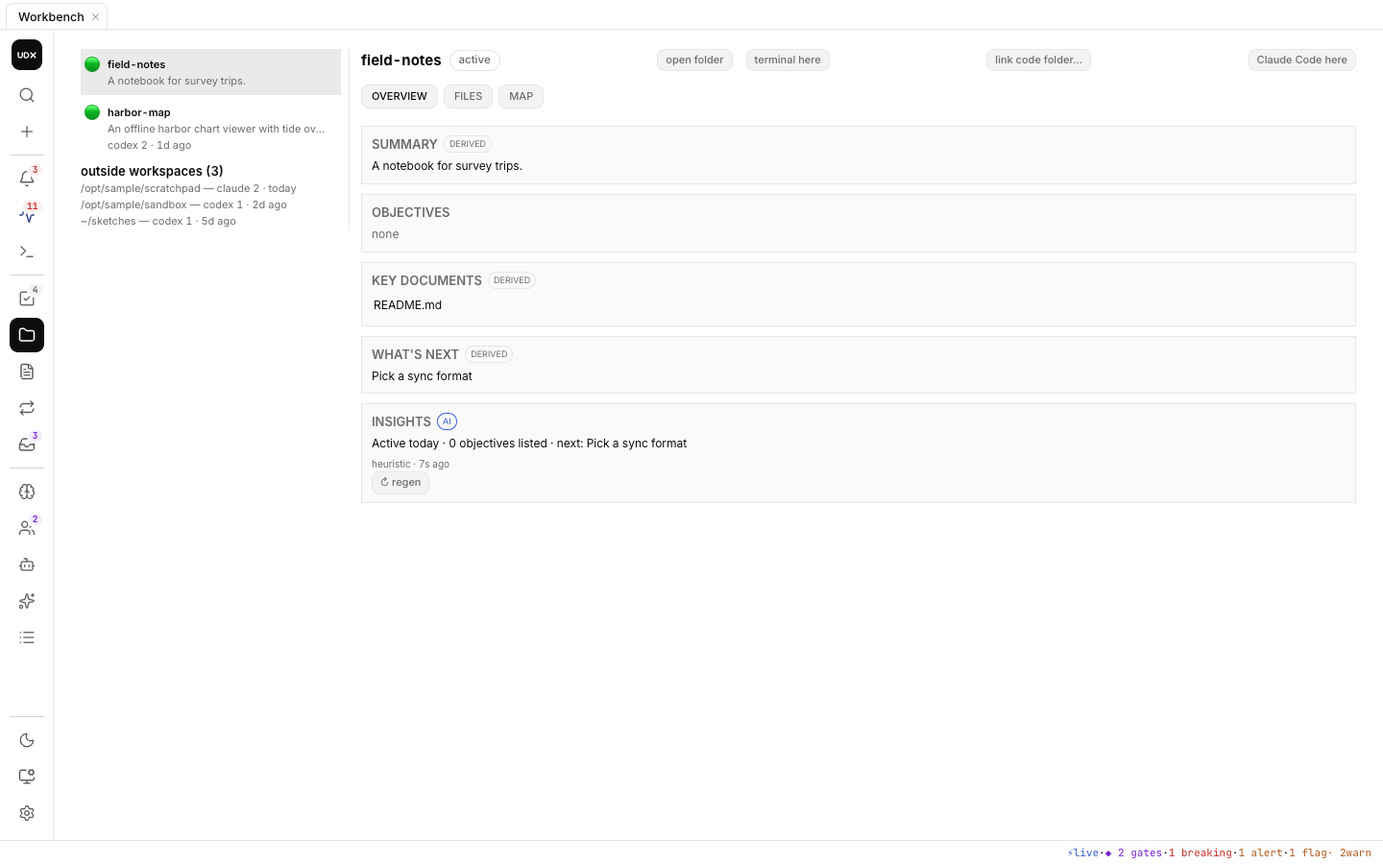
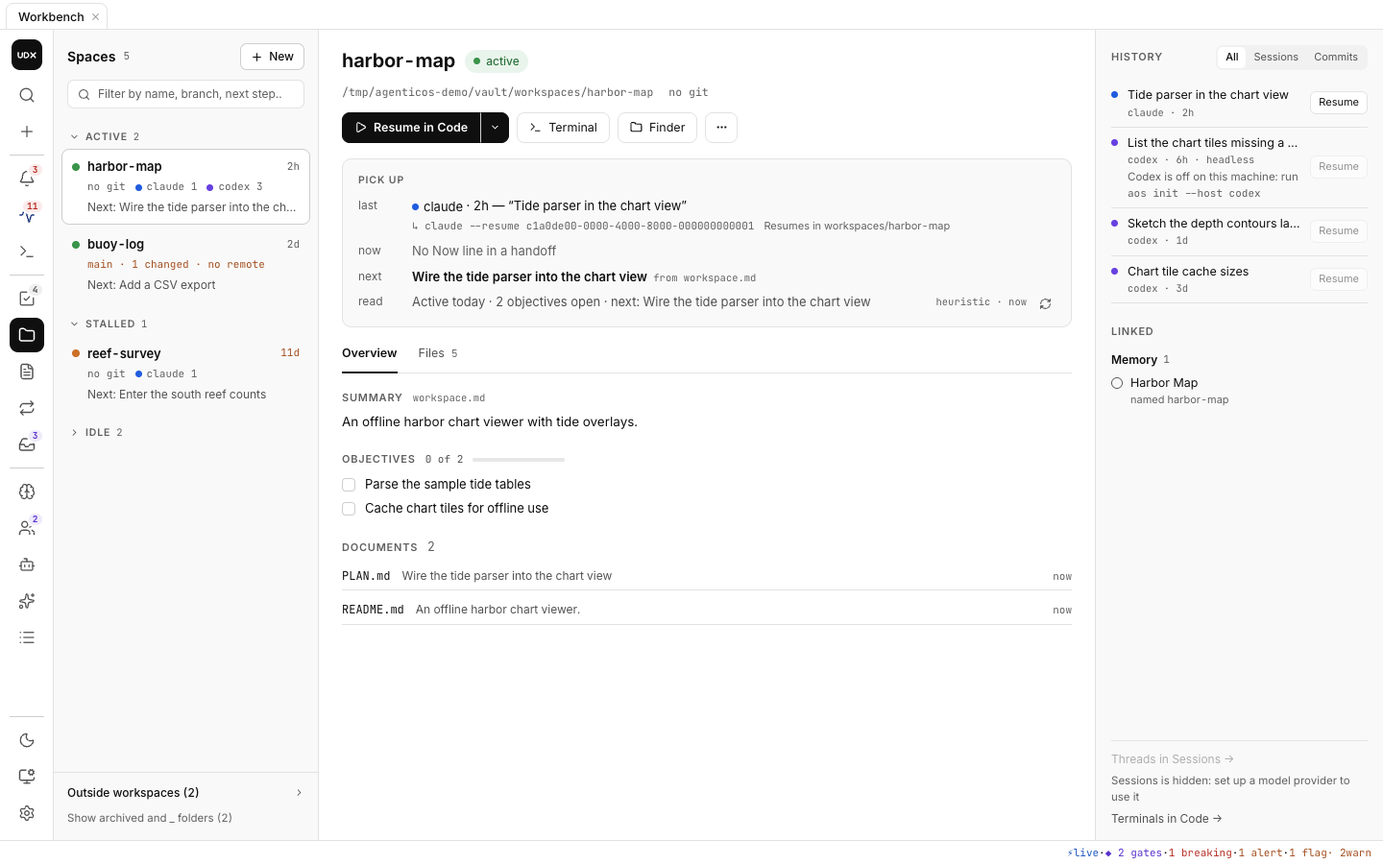
docs: Spaces redesign in the README, smoke items, changelog and screens

diff --git a/docs/app-smoke.md b/docs/app-smoke.md
@@ -147,10 +147,17 @@ Run before tagging a release, in the UniDeX app on a vault created by `aos init`
 
 ## Spaces / Memory / Runs
 
-- [ ] Spaces lists workspaces from `snapshot.json`; insight footer says `local` when no model tag is present.
-- [ ] **Claude Code:** Spaces rows carry a sessions chip (`claude N · codex M · Nd ago`, sessions of the last 30 days) for every workspace either CLI has worked in; a workspace whose sessions are all older than 30 days shows `none in 30d · Nd ago`, and one with no session at all shows no chip. Counts include the local sessions of a host that is turned off. A Claude Code session started at the vault root that touches files in `workspaces/x` (three edits or reads or more, more than any other workspace) raises x's `claude` count after the next scan (the session's end, or `/scan`); what a subagent of that session edits does not count.
-- [ ] **Codex:** a Codex session started in a checkout under `workspaces/.worktrees/<ws>/` counts for `<ws>`: its `codex` count rises after the next scan, and the checkout is not listed outside workspaces.
-- [ ] An "outside workspaces" footer under the list names each working directory sessions ran in elsewhere (`~`-shortened, newest first, at most eight); hovering shows the `aos workspace adopt` command. It disappears once those folders are adopted and the vault rescanned. Temp, scratch and job folders (anything under the OS temp folder, `/tmp` or `/var/folders`), home itself, each host's config folder and the vault outside `workspaces/` are never listed.
+- [ ] The list: Spaces lists the scan's workspaces (`snapshot.json`) in PINNED, ACTIVE, STALLED and IDLE groups, each a disclosure button with its count; IDLE starts folded, and a `paused` or `done` workspace sits in it with its word. Typing in "Filter by name, branch, next step…" narrows the list by those three without losing focus and opens every group while it has text; Esc clears it. `_` folders and archived workspaces stay out until "Show archived and _ folders (n)" lists them in a group of their own, tagged `archived` or `_ folder`. A row shows a status dot (active green, stalled amber, idle grey; its word on hover), the name, `live` while a Code terminal or a Sessions turn runs there, and the last-active age (amber when stalled); the branch with `✓` or its changed count, and `no remote`; a dot and a count for each host with sessions in the last 30 days; `Next: …`, or the handoff's `Now: …`; and its open to-dos (☐) and pending proposals (◇). **+ New** opens Code's New workspace sheet (⇧⌘N).
+- [ ] **Claude Code:** a row carries `claude N` (its Claude Code sessions of the last 30 days, with `codex M` beside it when Codex worked there too) for every workspace either CLI has worked in; a workspace whose sessions are all older than 30 days shows its last-active age and no count. Counts include the local sessions of a host that is turned off. A Claude Code session started at the vault root that touches files in `workspaces/x` (three edits or reads or more, more than any other workspace) raises x's `claude` count after the next scan (the session's end, or `/scan`); what a subagent of that session edits does not count.
+- [ ] **Codex:** a Codex session started in a checkout under `workspaces/.worktrees/<ws>/` counts for `<ws>`: its `codex` count rises after the next scan, and the checkout is not listed under Outside workspaces.
+- [ ] **Outside workspaces (n)**, at the foot of the list, opens in the centre every working directory sessions ran in outside a workspace: the `~`-shortened folder, its sessions per host, last active, the workspace whose name it matches (a click opens that workspace) and its git branch and worktrees; folders that no longer exist sit under VANISHED, tagged `gone`. It says "Nothing here moves a folder." and offers no adopt command; Back to <workspace> returns. Temp, scratch and job folders (anything under the OS temp folder, `/tmp` or `/var/folders`), home itself, each host's config folder and the vault outside `workspaces/` are never listed.
+- [ ] The dossier's header: the name; a status pill (`active · auto` when worked out from sessions and commits, the word alone when `workspace.md` sets it; no menu yet); a pin mark when `workspace.md` pins it; and a mono meta line: the `~`-shortened folder, `code → ~/…` for a linked code folder, then `main · clean · <short hash>` (or the changed count, ↑↓ and `no remote`), or `tracked by the vault · Link code folder…`. The actions sit together on the left: **Resume in Code** (**Start in Code** when there is no session yet, **Open in Sessions** when the last thread is a Sessions one), whose ▾ menu holds a New <host> session row for each host that is on, Terminal here and Open last thread in Sessions; **Terminal** (a shell there, in Code); **Finder** (the workspace folder); and **More ⋯** with Copy path (it reads "copy failed" in the app: COVERAGE compat gap 1), Reveal in Finder and Link code folder….
+- [ ] Pick up, under the header, one row each: *last* (the host, the age and the title of the newest interactive or Sessions thread, with the line Resume types and where it resumes), *now* (the handoff's Now line, `from HANDOFF-x.md › Now`), *next* (bold, with its source) and *read* (the insight in one line, `suggests: …`, the model and age, and ↻). A workspace without them reads "No session yet: start one from Resume's menu", "No Now line in a handoff", "No next step in HANDOFF, STATUS or PLAN" and "No insight yet" beside the read's ↻; under provider `none` ↻ stays on and says it writes a heuristic read.
+- [ ] Overview and Files, the centre's two tabs (← → move between them): Overview is the Summary with its source (the stub's placeholder says so), Objectives as `n of m` with a progress bar and the checklist, and Documents (handoffs and plans with their age and a one-line note, finished ones marked `done`), as plain sections. Files is one tree of the folder with each file's map description inline, NEW and CHANGED badges, "Not described yet", and "not mapped" with no badge for a file the map skips (binary, over 1 MB, an ignored folder); "Filter by path or description…" and All · New · Changed narrow it. **Describe N new** counts only files the map can describe and keeps the scan's budgets (its tooltip says so); with nothing new it reads "Nothing new" and is off. A selected file's preview takes the right pane (a Markdown file rendered, anything else as text), with Open, Copy path and Reveal in Finder; ↻ beside a described file (in the tree and the preview) describes it again, and is off with "Needs a model provider" under provider `none`.
+- [ ] The right pane: HISTORY with All · Sessions · Commits (sessions with a host dot, title, age and Resume, or Open for a Sessions thread, off with the reason under it when it cannot; commits with the short hash and subject from the workspace's repository or its linked code folder) and "All n in Sessions →" when it has Sessions threads; LINKED with To-do (open to-dos tagged `#ws/<slug>`), Proposal (pending proposals whose target or recheck names the workspace) and Memory (notes with `workspace:`, its slug, or a mention of `workspaces/<name>/`, a former name from `aliases:` included), each row saying how it matched, an empty group left out, and "Nothing links to this space: …" when nothing does; under them Threads in Sessions → and Terminals in Code →.
+- [ ] Resume, per host. **Claude Code:** Resume in Code on a workspace whose last thread is a Claude Code one opens a Code terminal in the workspace's group (`ws:<name>`; the row shows `live`) that types `claude --resume <id>` in the workspace's folder (its linked code folder when it has one), and that conversation comes back, also when it started at the vault root. **Codex:** on a Codex thread it types `codex resume -C <folder> <id>` there, and that thread comes back in that folder. A History row's Resume does the same for its thread. On a Codex-only vault (`hosts.claude.enabled: false`) a Claude Code thread's Resume is off with "Claude Code is off on this machine: run aos init --host claude" and the ▾ menu has no New Claude Code session row (on a Claude-Code-only vault the same for Codex); a host that is not logged in is off with its reason, and a run the scan marks not resumable is off with the scan's reason.
+- [ ] Links by workspace: Threads in Sessions → opens Sessions showing only that workspace's threads (Show all brings the rest back), and Terminals in Code → opens Code on its group; Sessions' workspace crumb, the Open workspace button on a Code workspace group and a Pulse workspace row open Spaces on that workspace. `agenticos://workbench?tab=spaces&workspace=<name>` opens Spaces with it selected (`&pane=files` on Files) and does nothing else: a name not in the scan, an unknown pane or a malformed `thread` is dropped, and no link resumes, opens a terminal or runs anything. Without a model provider (no Sessions tab) every Sessions link is off with "Sessions is hidden: set up a model provider to use it".
+- [ ] Layout: the list (about 260px), the dossier, and History over Linked (about 300px); below 1100px wide the right pane folds under the dossier, and below 760px the list stacks above it (the app's window stops at 960px, so the stack shows only in a narrower page, such as the dev tools' device view). In light and dark, colour marks state only (the status, dirty, no remote, NEW, CHANGED, and the host dots: Claude Code blue, Codex violet), and every dot has a text label.
 - [ ] Memory graph renders; daily notes under the configured `dailyNote.layout` classify as `session` nodes.
 - [ ] Runs tab updates within a second of a new line appended to `agent-runs/runs.jsonl` (bus `runs-appended`).
 
@@ -213,6 +220,8 @@ Run on a machine with the `codex` CLI logged in, after `aos init --host codex` (
 - [ ] The SessionStart update notice compares the Codex plugin's version (`(plugin <x>, vault <y>)`) when the vault is behind.
 - [ ] With no `claude` on PATH, `aos graph build --semantic` names Codex in its consent line and runs: `aos graph` shows the semantic row `… · via codex`, `brain/_index/provider-spend.jsonl` gains `graph:semantic` rows with `provider: "codex"`, and `brain/graphify-out/graph.json` gains `concept` nodes.
 - [ ] With cost enabled, a Codex run missed at SessionEnd is costed by `aos auto-cost --backfill` (`cost_source: "codex-rollout"`), and `aos auto-cost --cost-one <codex session id>` works on a machine with both hosts; the Pulse Fix Queue counts such runs until they are costed. The System drawer shows a `codex: n skills · n prompts · n hooks` chip, and `node <vault>/brain/scripts/persona/scan-arsenal.js` lists Codex skills and prompts with `"host": "codex"`.
+- [ ] Resume by id: start a Codex session at the vault root that edits files in `workspaces/<ws>` (or one in a checkout under `workspaces/.worktrees/<ws>/`), quit it and scan. In Spaces, Resume in Code on `<ws>` (or that thread's Resume in History) types `codex resume -C <the workspace folder> <id>` in a Code terminal, and Codex reopens that thread in the workspace folder without asking which folder to use: without `-C`, Codex 0.162 asks whenever the thread was recorded in another folder, unless `tui.resume_cwd` is set in `config.toml`. Quit it: the end bar's Resume types the same line and the same thread comes back, not the folder's latest one. A `codex exec` run in that workspace resumes the same way from its History row; a thread archived in Codex is off with "Archived in Codex".
+- [ ] Codex titles: in Spaces (the pick-up's *last* row and History), a Codex thread shows the name it was given in Codex (`session_index.jsonl`'s `thread_name`; after a rename, the newest one) once the next scan has run, and its first prompt when it has no name.
 - [ ] `aos uninstall --host codex` removes the plugin and the `agenticos-workbench` marketplace (`codex plugin list`, `codex plugin marketplace list`), `codex mcp list` no longer shows `agenticos`; *direct:* the entries leave `hooks.json` (the file itself only when nothing else was in it) and `~/.agents/skills/` keeps only skills you wrote yourself.
 
 ## Vault chat (per provider)
@@ -249,10 +258,10 @@ On by default since 1.2.0 (plan 2026-10-07-unidex-sessions C3). Run these in a w
 - [ ] On a fresh install the Code tab opens a live shell at once (the app carries the terminal), with no "Terminal unavailable".
 - [ ] ⌘T from another tab starts the host you used last in the vault, and the header says "Started Claude Code in Vault · Change"; no `workspaces/scratch` appears. Picking Scratch in New ▾ makes it (README, CLAUDE.md and AGENTS.md) and starts there, and ⌘T with that Scratch terminal selected still starts in the vault. **Claude Code:** the tab gets the conversation's title. **Codex:** ⌥⌘2 starts `codex` the same way.
 - [ ] New ▾: typing an existing workspace's exact name starts there; a new name ("Tide chart") creates `workspaces/tide-chart` and starts there; the preview line matches what the terminal shows. ⇧⌘N refuses `research` and offers to open an existing workspace. Switching the host in New ▾ (a click or Tab) keeps the menu open, with the typing in its filter.
-- [ ] Spaces ▸ link code folder… with `~/<a repo>`: the detail shows `code: …`, and Claude Code here starts in that folder.
+- [ ] Spaces ▸ More ⋯ ▸ Link code folder… (or the meta line's Link code folder… on a workspace the vault tracks) with `~/<a repo>`: the meta line shows `code → ~/<a repo>`, and Terminal starts a shell in that folder. **Claude Code:** New Claude Code session (Resume in Code's ▾ menu) starts `claude` there. **Codex:** New Codex session starts `codex` there. Finder still opens the workspace folder.
 - [ ] From the Dock or Finder (not a terminal), an npm-installed `codex` or `claude` starts from the Code tab.
 - [ ] The composer, per host and under a plain shell: ⌘L focuses it under any running terminal (a shell's ⏎ runs the command; it has no / list); @ lists the place's files (a vault workspace); / lists Claude Code's commands or Codex's `$skills`; a two-line message with ⇧⏎ arrives as one message; Save as snippet, then Snippets inserts it. In Claude Code's prompt ⇧⏎ adds a line. A status-line link in a Claude Code terminal opens in the Workbench ("1 flag" opens `persona/STATE.md`).
-- [ ] The deck: terminals group by place (workspaces and Scratch above the vault); the header's place menu offers Start here / Open a shell here / Make this a workspace… (Scratch) / Link a code folder… (a workspace); an agent you quit shows ✓ Done and Restart / Resume (Claude Code resumes the same conversation; Codex the latest); ⇧⌘[ ⇧⌘] and ⇧⌘W work with the terminal focused, per host.
+- [ ] The deck: terminals group by place (workspaces and Scratch above the vault); the header's place menu offers Start here / Open a shell here / Make this a workspace… (Scratch) / Link a code folder… (a workspace); an agent you quit shows ✓ Done and Restart / Resume, and on both hosts Resume reopens the same conversation by its id whenever the terminal knows it (a new Claude Code conversation, or any terminal a resume by id started, such as Spaces' Resume in Code on a Claude Code or a Codex thread); a terminal that does not (a new Codex session) offers Resume latest (`claude --continue`, `codex resume --last`); ⇧⌘[ ⇧⌘] and ⇧⌘W work with the terminal focused, per host.
 - [ ] Find, per host: in a Claude Code or Codex terminal with a long answer, ⌘F with the terminal focused opens the find bar over the card; typing highlights the matches (scrollback included) and counts them; ⏎ / ⇧⏎ walk them and scroll the terminal; Esc closes the bar, clears the highlights and the agent takes your typing again. In light and dark the highlighted text stays readable.
 - [ ] Layout after Code: open the Code tab, then every other tab; each looks as it does on a fresh start (Notifications and Proposals with their list on the left and the reading pane beside it, To-Do one list, Files' search and tree at the left, Agent Teams' team switch above the board, the toolbars of Runs, Memory, Agents and Skills at the top).
 - [ ] Fit: at full size and at the smallest window (960×600) the Code page never scrolls: the composer's send button and the list's "n open" foot sit inside the window; a wheel over the terminal scrolls its history, never the page. The composer is about twice its 1.5.0 height (six lines of 15px text); a longer message scrolls inside it, and dragging its corner makes the text area taller, up to 320px.

diff --git a/README.md b/README.md
@@ -46,7 +46,7 @@ It works with **Claude Code alone**, with **Codex CLI alone**, or with both shar
 | <img src="docs/assets/icon-session.svg" width="48" alt="" /> | **Routines.** Recurring actions as files — `brain/routines/<slug>.md` with a cron schedule and a kind (a persona duty, a headless prompt for Claude Code or Codex, or a command). One `aos routines sync` renders the launchd or cron schedules; the HUD tab shows next fire, last run and health, and edits the same files. The same tab lists, read-only, the routines your session hosts own: Codex app Automations and Claude Code cloud routines. |
 | <img src="docs/assets/icon-session.svg" width="48" alt="" /> | **Universal skills.** A skill you write for Claude Code (`~/.claude/skills`) works in Codex, and one you write for Codex (`~/.agents/skills`) works in Claude Code. With both hosts enabled, every session end copies each host's own skills into the other host's folder, translated to its idioms (`$ARGUMENTS`, questions, `/name` ⇄ `$name`) and marked so a hand edit is never overwritten. `aos skills` and the Skills tab list them all, plugin skills and built-ins included. |
 | <img src="docs/assets/icon-staff.svg" width="48" alt="" /> | **Universal agents.** A subagent you write for Claude Code (`~/.claude/agents/<name>.md`) works in Codex, and one you write for Codex (`~/.codex/agents/<name>.toml`) works in Claude Code. With both hosts enabled, every session end copies each host's own agents into the other host's folder, translated between Markdown and TOML: the name, description and prompt carry over, an agent whose tools cannot write runs read-only on the other host, and each host keeps its own model. A copy is marked so a hand edit is never overwritten, and a name that would replace a host's built-in agent is never copied. `aos agents` and the Agents tab list them all, plugin agents and Codex `config.toml` roles included. |
-| <img src="docs/assets/icon-hud.svg" width="48" alt="" /> | **The UniDeX app.** A macOS app with a Files view (the vault tree, quick open, search and a Markdown editor) and thirteen more tabs — Pulse, the Home tab (your Chief of Staff's briefing over ten tiles: what needs you, system health, agents, workspaces, to-dos, decisions, notifications, routines, spend and memory, each opening one popup where its rows act or jump to their review, with no scrolling), To-Do (your `TODO.md` in Tasks syntax, grouped by due date and priority), Proposals (the Chief of Staff's pending proposals, backlog and decision history, with a count badge), Notifications (what agents, routines and duties post, with an unread badge), Spaces, Memory (list or force graph), Runs, Routines, Skills (every Claude Code and Codex skill, runnable on either host), Agents (every Claude Code and Codex agent, startable on either host), Agent Teams (the gates waiting on you across your teams, then each team's work board, roster, channel and seat settings, with a badge counting the gates), Sessions (agent sessions in a workspace on Claude Code or Codex, laid out like Claude Code: one menu picks the host and a model from that host's own list, with its effort, and the model, effort and access — read only, edit files, or edit and run commands — can change on any turn; `/` lists the host's commands, or Codex's skills as `$name`; tool calls read as `Update(file)` lines with a plan card, a status line shows the turn's model, spend and branch, and Review changes (with +/− counts) and Commit act on what changed; Vault, the chat about your notes, comes first in its list and asks any host per question, always read only) and Code (the embedded terminals, with a composer for agent prompts), on a rail in three sections — plus ⚙ Settings pinned to the rail's foot, a sidebar carrying the update and heartbeat pills, and a menubar item. |
+| <img src="docs/assets/icon-hud.svg" width="48" alt="" /> | **The UniDeX app.** A macOS app with a Files view (the vault tree, quick open, search and a Markdown editor) and thirteen more tabs — Pulse, the Home tab (your Chief of Staff's briefing over ten tiles: what needs you, system health, agents, workspaces, to-dos, decisions, notifications, routines, spend and memory, each opening one popup where its rows act or jump to their review, with no scrolling), To-Do (your `TODO.md` in Tasks syntax, grouped by due date and priority), Proposals (the Chief of Staff's pending proposals, backlog and decision history, with a count badge), Notifications (what agents, routines and duties post, with an unread badge), Spaces (each workspace as a dossier: a list grouped by status and searchable by name, branch or next step; a pick-up card with the last Claude Code or Codex thread, the handoff's Now line, the next step and the insight; Overview, a Files tree with each file's map description inline, and the workspace's history and linked to-dos, proposals and memory notes; Resume in Code reopens the last thread on its own host, and Spaces, Sessions, Code and Pulse link to each other by workspace), Memory (list or force graph), Runs, Routines, Skills (every Claude Code and Codex skill, runnable on either host), Agents (every Claude Code and Codex agent, startable on either host), Agent Teams (the gates waiting on you across your teams, then each team's work board, roster, channel and seat settings, with a badge counting the gates), Sessions (agent sessions in a workspace on Claude Code or Codex, laid out like Claude Code: one menu picks the host and a model from that host's own list, with its effort, and the model, effort and access — read only, edit files, or edit and run commands — can change on any turn; `/` lists the host's commands, or Codex's skills as `$name`; tool calls read as `Update(file)` lines with a plan card, a status line shows the turn's model, spend and branch, and Review changes (with +/− counts) and Commit act on what changed; Vault, the chat about your notes, comes first in its list and asks any host per question, always read only) and Code (the embedded terminals, with a composer for agent prompts), on a rail in three sections — plus ⚙ Settings pinned to the rail's foot, a sidebar carrying the update and heartbeat pills, and a menubar item. |
 | <img src="docs/assets/icon-commands.svg" width="48" alt="" /> | **One settings panel.** ⚙ Settings, at the bottom-left of the Workbench rail, shows every setting of the whole system in one place: master switches (background AI, the Chief of Staff, routines, the graph, cross-review, costing, telemetry, update checks, sharing), then each section — provider and models, spend limits with today's spend against each cap, memory and scanning, the Chief of Staff, routines, the graph, cross-review, telemetry, updates — and the plugin's own settings. Nothing is typed: every setting is a toggle, a preset picker (numbers also step with − / +), chips or a button, and a value set outside the presets stays shown. Every change goes through `aos config`, so it lands in the file that actually wins, atomically; raising a cap or widening an agent's autonomy asks first, and steps a change leaves (a schedule sync) become one-click buttons. Rows for a host you have not enabled are dimmed with the command that turns it on. |
 | <img src="docs/assets/icon-cost.svg" width="48" alt="" /> | **Cost, opt-in.** A python analyzer that costs every session from its transcript, with a monthly budget in the HUD. Off unless you turn it on. |
 
@@ -230,8 +230,8 @@ UniDeX on a demo vault, in its light theme with one picture in dark. Everything 
   </tr>
   <tr>
     <td width="50%" valign="top">
-      <img src="docs/assets/screens/spaces.png" width="100%" alt="Spaces: the vault's workspaces with summary, key documents and next step" />
-      <br /><sub><b>Spaces.</b> Every workspace in the vault with its summary, key documents and what is next, and the sessions that ran there.</sub>
+      <img src="docs/assets/screens/spaces.png" width="100%" alt="Spaces: the workspace list grouped by status, a workspace's pick-up card and overview, and its history and linked items" />
+      <br /><sub><b>Spaces.</b> Each workspace as a dossier: the list grouped by status, a pick-up card (last thread, now, next, the insight) with Resume in Code, Overview and Files, and History and Linked.</sub>
     </td>
     <td width="50%" valign="top">
       <img src="docs/assets/screens/pulse-dark.png" width="100%" alt="Pulse in the dark theme" />

diff --git a/docs/superpowers/plans/2026-10-09-spaces-redesign.md b/docs/superpowers/plans/2026-10-09-spaces-redesign.md
@@ -265,7 +265,7 @@ What the approved spec carried before it was condensed on 2026-10-09 and the spe
 **Files and wiring.**
 - `views/SpacesTab.ts`, the orchestrator: watches create, modify, delete and rename for `snapshot.json`, the maps, `brain/_index/sessions/**`, `workspaces/*/workspace.md`, `TODO.md`, `persona/proposals/`, `brain/memory/projects/`, plus the terminal pool's events and `HostSessions.onEvent`, through one 250 ms debounce; redraws only the changed pane, keeping focus and scroll (the `AgentTeamsTab` pattern); keeps `selectedWorkspace()`, adds `reveal()`.
 - `views/spaces/ui.ts` and the render functions `ListPane`, `DossierPane`, `PickupCard`, `OverviewPane`, `FilesPane`, `PreviewPane`, `HistoryPane`, `LinkedPane` (the `views/teams` pattern), and `Popover.ts` (`role=menu`, Esc closes, focus on the first item).
-- **Pick-up rows:** *last* is the newest `recent` row of kind interactive or app; team and headless rows appear only in History. Empty states: *last* "No session yet: start one from Resume's menu"; *now* "No Now line in a handoff"; *next* "No next step in HANDOFF, STATUS or PLAN" (PR 3 adds Draft workspace.md); *read* "No insight yet · ↻", or "Needs a model provider". The resume hint is `launchLine(spec)`, so it shows the configured binary.
+- **Pick-up rows:** *last* is the newest `recent` row of kind interactive or app; team and headless rows appear only in History. Empty states: *last* "No session yet: start one from Resume's menu"; *now* "No Now line in a handoff"; *next* "No next step in HANDOFF, STATUS or PLAN" (PR 3 adds Draft workspace.md); *read* "No insight yet" beside its ↻; under `none` ↻ stays on and writes a heuristic read (regen-workspace-insight.js falls back to `heuristicInsight`), and its title says so: the read row never shows "Needs a model provider" (that is ↻ per file's, D33). The resume hint is `launchLine(spec)`, so it shows the configured binary.
 - **Files:** the tree is the live listing (`workspaceFiles.ts`) joined with the map (`workspaceMaps.ts`, which gains the All/New/Changed filters); a file the map skips (binary, over 1 MB, an ignored folder: `fileMap.js:21-26`) shows "not mapped" with no badge; Describe N new counts only mappable files.
 - `data/spacesModel.ts` (+ test): groups, filter, hidden rule, `liveByWorkspace(threads, terminals)`, `linkedFor` (D27; proposals by `target`/`recheck` until PR 3), and `resumeTarget(row, snapshot, choices)` → `{host, id, cwd, hint}` or `{disabled, reason}`: the id is a UUID, is in this workspace's `recent` in the current snapshot, and is `resumable`; the host is enabled (D31); the cwd follows D7 (above). The launch passes `picked: {...workspacePlace(name, w), dir: target.cwd, linked: false}`: `groupKey` keys on `place.workspace` (`termGroups.ts:23-27`) and `placeOf(<vault root>)` is the Vault place, so a start-folder resume stays in `ws:<name>` and keeps D26's live dot. `data/hostSessions.ts`: `exists`, `match`, `git`, the Vanished group, `recent`. `data/memories.ts`: `workspace` and the body's `workspaces/<name>/` mentions.
 - **Terminal resume:** `WorkbenchView.open(target)` and an `origin` option on `launchTerminal`. The terminal meta's `claudeSessionId` becomes a host-neutral `sessionId` (`terminalSession.ts:24, :72`, `terminalLauncher.ts:230`, `TerminalPanel.ts:404`; nothing persists it); `start` records it on any resume; the end bar offers Resume by id for either host when it is set, "Resume latest" only otherwise. `launchArgs` throws on a free value that starts with `-`.

diff --git a/CHANGELOG.md b/CHANGELOG.md
@@ -5,8 +5,12 @@ All notable changes to UniDeX (AgenticOS Workbench before 1.1). Versions follow 
 ## [Unreleased]
 
 ### Changed
+- **Spaces is a three-pane dossier.** A searchable list grouped by status, a pick-up card (last thread, the handoff's Now line, next step, the insight), Overview and a Files tree with map descriptions inline, and a History and Linked pane.
 - **`_` folders are hidden from Spaces and Pulse counts**, and the outside list drops temp, scratch and job folders.
 - **Workspace status is active, stalled or idle**, worked out from sessions and commits, unless `workspace.md` sets `active`, `paused` or `done`; session counts cover the last 30 days on both hosts.
+
+### Added
+- **Resume in Code** reopens a workspace's last Claude Code or Codex thread in a Code terminal; a Codex terminal started by Resume (from Spaces or the end bar) resumes that same thread by its id when it ends; Spaces, Sessions, Code and Pulse link to each other by workspace.
 
 ### Fixed
 - **Spaces counts Claude Code sessions.** Sessions are read from each transcript's own folder, worktrees and team seats are credited to their workspace, and sessions started at the vault root count for the workspace whose files they touched.
